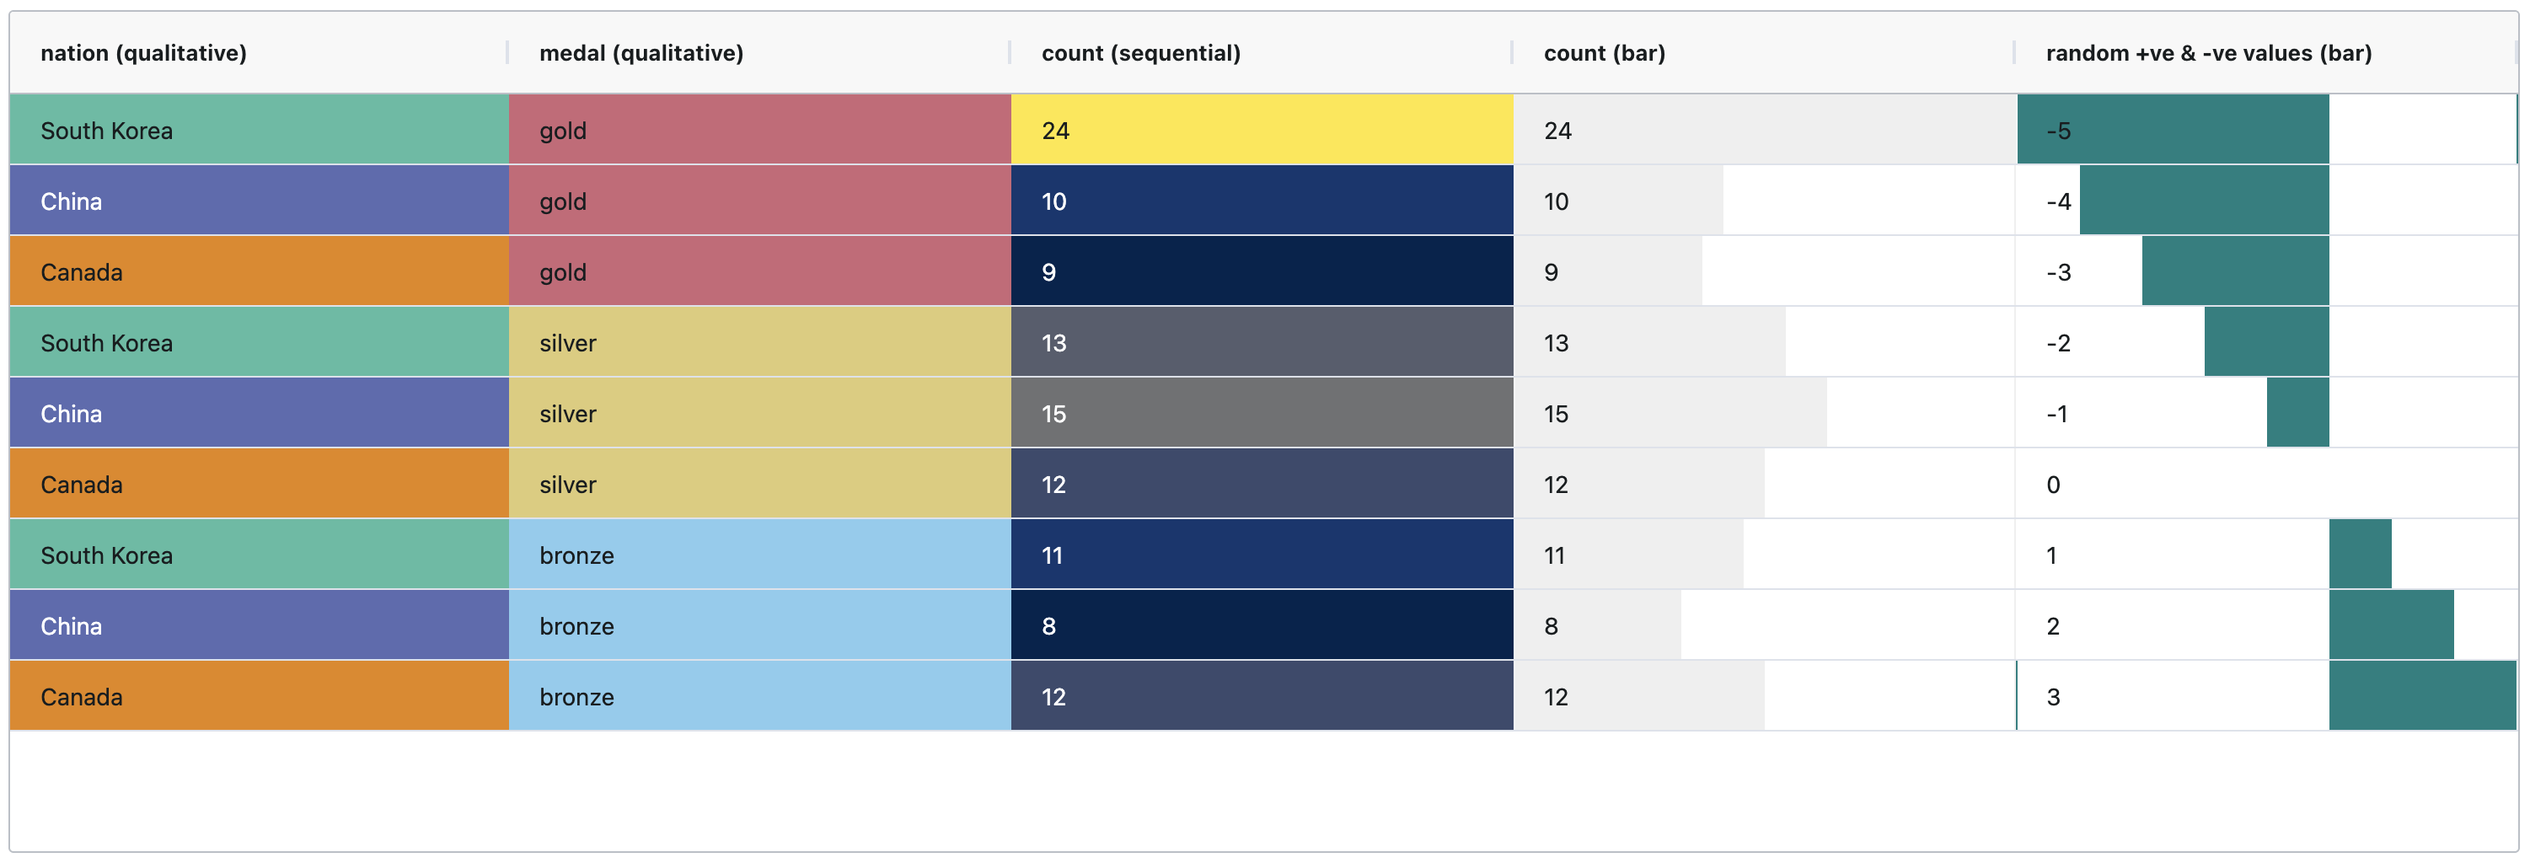
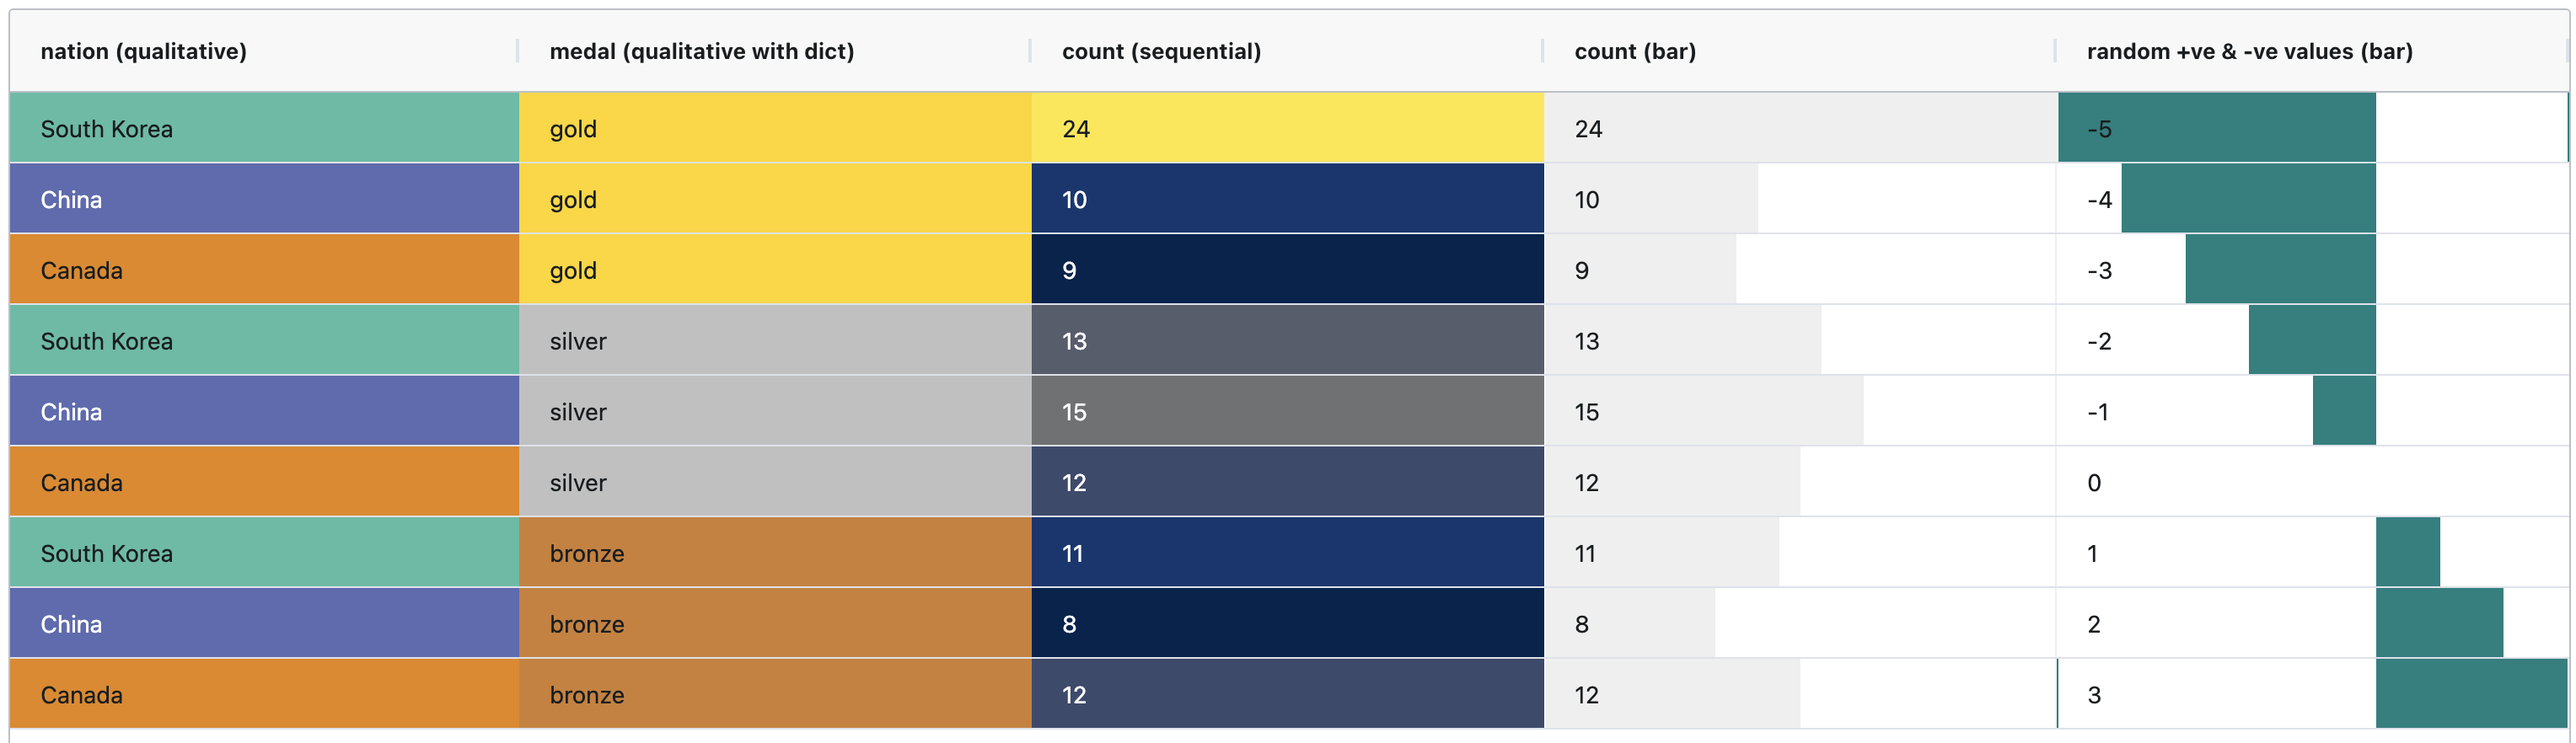
Update readme with dict option for qualitative

diff --git a/README.md b/README.md
@@ -40,8 +40,11 @@ app.layout = html.Div([
             },
             {
                 "field": "medal",
-                "headerName": "medal (qualitative)",
-                "cellStyle": {"styleConditions": das.qualitative(medals["medal"], "Safe")},
+                "headerName": "medal (qualitative with dict)",
+                "cellStyle": {"styleConditions": das.qualitative(
+                    medals["medal"], 
+                    {"gold": "gold", "silver": "silver", "bronze": "#cd7f32"}
+                )},
             },
             {
                 "field": "count",
